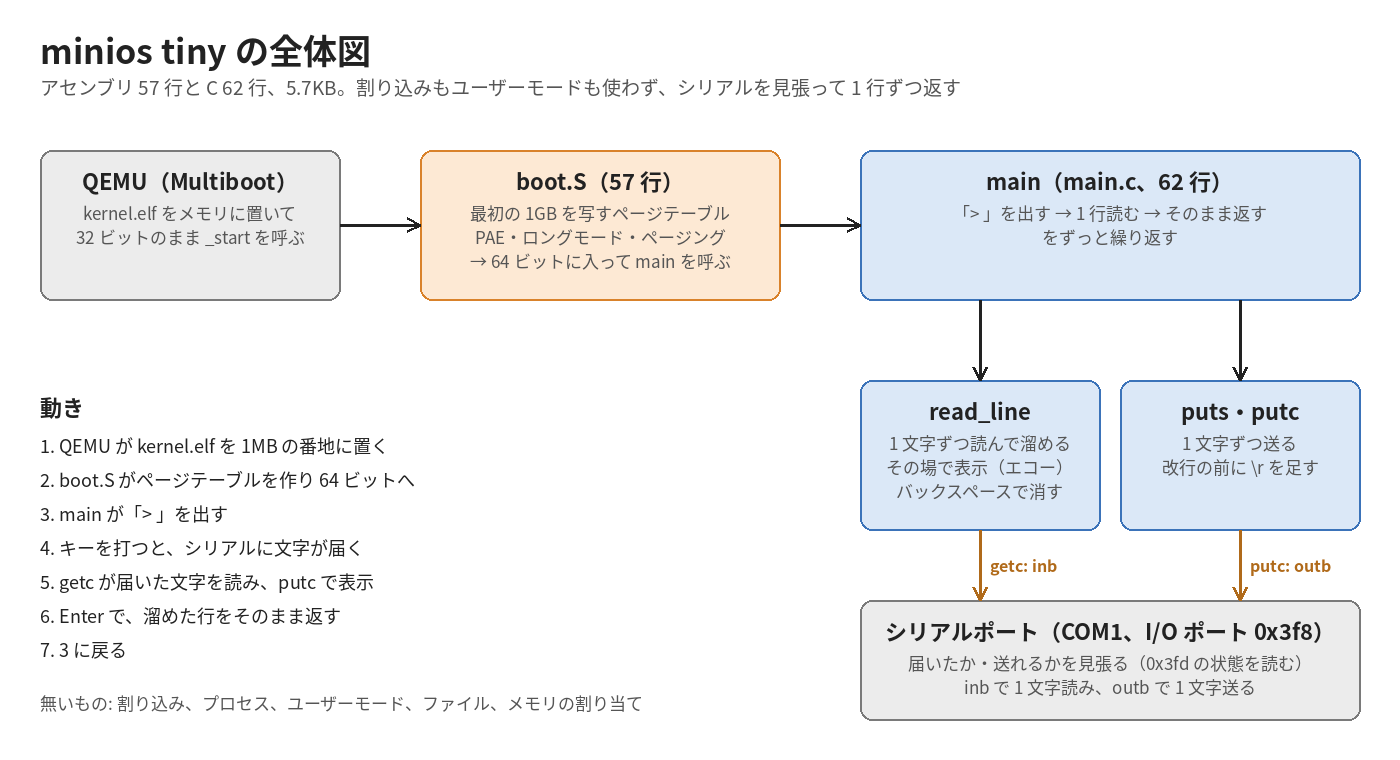
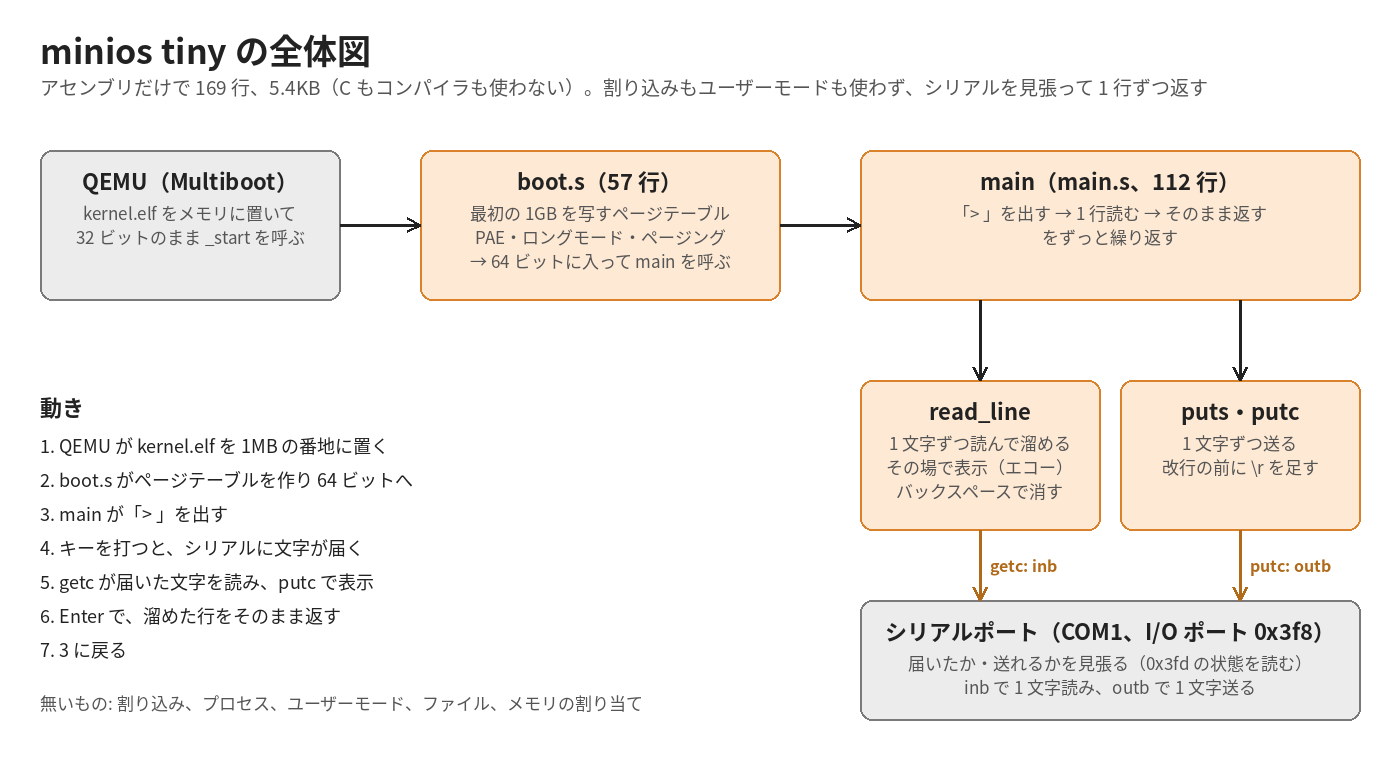
tiny をアセンブリだけで書き直す（169 行、5.4KB）。ビルドは as と ld だけ

diff --git a/docs/tiny.py b/docs/tiny.py
@@ -31,16 +31,16 @@ def arrow(x1, y1, x2, y2, color=INK, label=None, width=3):
 
 
 d.text((40, 24), "minios tiny の全体図", font=f(34, True), fill=INK)
-d.text((40, 72), "アセンブリ 57 行と C 62 行、5.7KB。割り込みもユーザーモードも使わず、シリアルを見張って 1 行ずつ返す", font=f(19), fill=SUB)
+d.text((40, 72), "アセンブリだけで 169 行、5.4KB（C もコンパイラも使わない）。割り込みもユーザーモードも使わず、シリアルを見張って 1 行ずつ返す", font=f(19), fill=SUB)
 
 box(40, 150, 300, 150, HW, "QEMU（Multiboot）", ["kernel.elf をメモリに置いて", "32 ビットのまま _start を呼ぶ"])
-box(420, 150, 360, 150, ASM, "boot.S（57 行）", ["最初の 1GB を写すページテーブル", "PAE・ロングモード・ページング", "→ 64 ビットに入って main を呼ぶ"])
-box(860, 150, 500, 150, C, "main（main.c、62 行）", ["「> 」を出す → 1 行読む → そのまま返す", "をずっと繰り返す"])
+box(420, 150, 360, 150, ASM, "boot.s（57 行）", ["最初の 1GB を写すページテーブル", "PAE・ロングモード・ページング", "→ 64 ビットに入って main を呼ぶ"])
+box(860, 150, 500, 150, ASM, "main（main.s、112 行）", ["「> 」を出す → 1 行読む → そのまま返す", "をずっと繰り返す"])
 arrow(340, 225, 420, 225)
 arrow(780, 225, 860, 225)
 
-box(860, 380, 240, 150, C, "read_line", ["1 文字ずつ読んで溜める", "その場で表示（エコー）", "バックスペースで消す"])
-box(1120, 380, 240, 150, C, "puts・putc", ["1 文字ずつ送る", "改行の前に \\r を足す"])
+box(860, 380, 240, 150, ASM, "read_line", ["1 文字ずつ読んで溜める", "その場で表示（エコー）", "バックスペースで消す"])
+box(1120, 380, 240, 150, ASM, "puts・putc", ["1 文字ずつ送る", "改行の前に \\r を足す"])
 arrow(980, 300, 980, 380)
 arrow(1240, 300, 1240, 380)
 
@@ -49,7 +49,7 @@ arrow(980, 530, 980, 600, "#b06a1a", "getc: inb")
 arrow(1240, 530, 1240, 600, "#b06a1a", "putc: outb")
 
 d.text((40, 390), "動き", font=f(22, True), fill=INK)
-flow = ["1. QEMU が kernel.elf を 1MB の番地に置く", "2. boot.S がページテーブルを作り 64 ビットへ", "3. main が「> 」を出す",
+flow = ["1. QEMU が kernel.elf を 1MB の番地に置く", "2. boot.s がページテーブルを作り 64 ビットへ", "3. main が「> 」を出す",
         "4. キーを打つと、シリアルに文字が届く", "5. getc が届いた文字を読み、putc で表示", "6. Enter で、溜めた行をそのまま返す",
         "7. 3 に戻る"]
 for i, t in enumerate(flow):

diff --git a/README.md b/README.md
@@ -10,7 +10,7 @@ AI が 1 周ずつ育てた記録は [JOURNAL.md](JOURNAL.md) にある。
 
 ## いちばん小さい自作カーネル（tiny/）
 
-`./run.sh tiny` で起動する。アセンブリ 57 行と C 62 行（5.7KB）で、1 行読んでそのまま返すだけ。ここから自分たちの設計で育てる。
+`./run.sh tiny` で起動する。アセンブリだけ（169 行、5.4KB）で、1 行読んでそのまま返すだけ。ビルドに使うのはアセンブラとリンカ（binutils）だけ。ここから自分たちの設計で育てる。
 
 ![tiny の全体図](docs/tiny.png)
 
